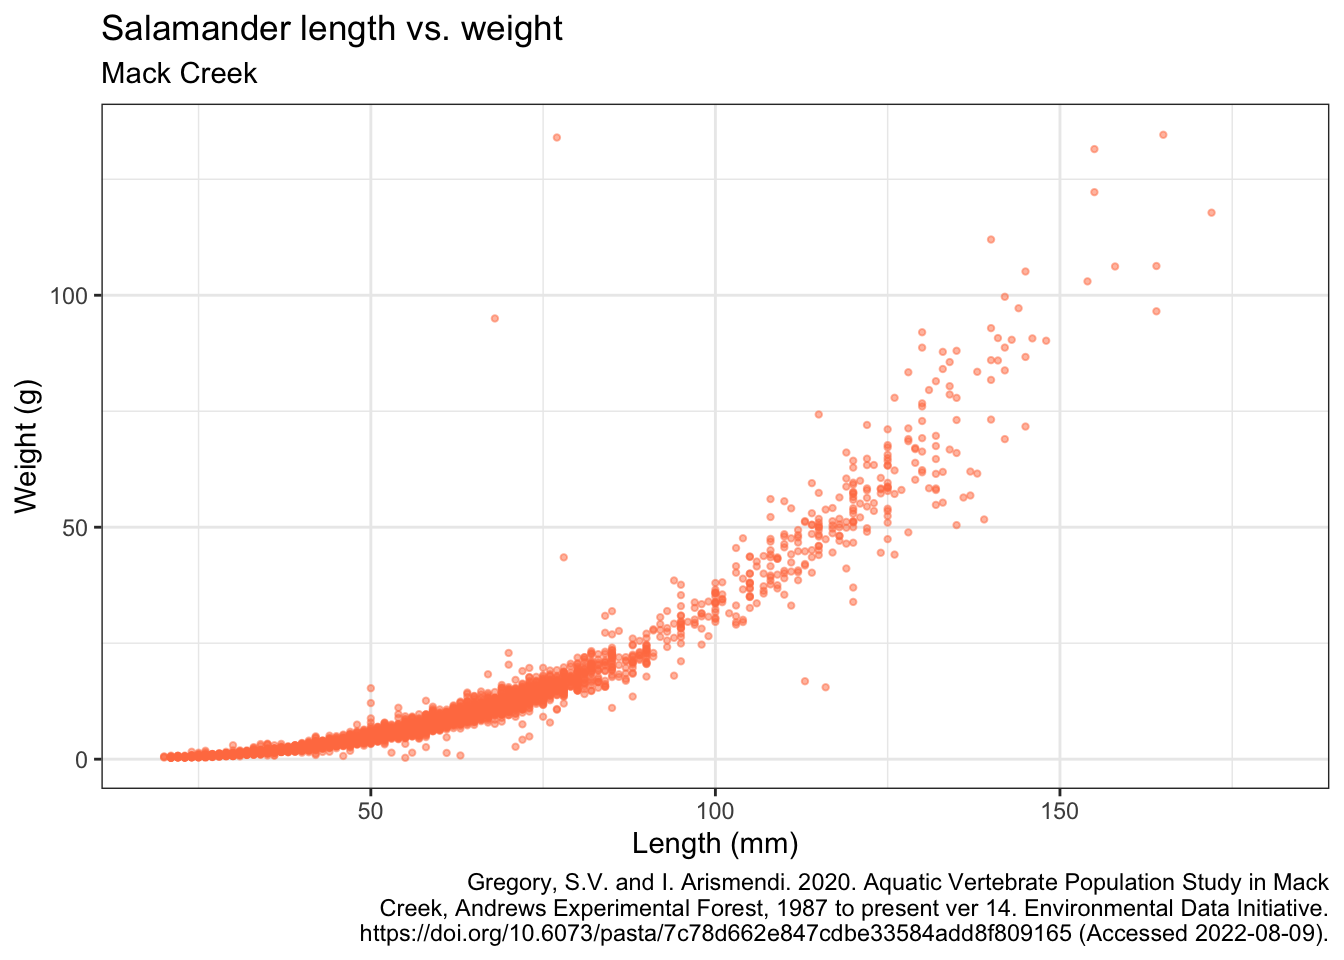
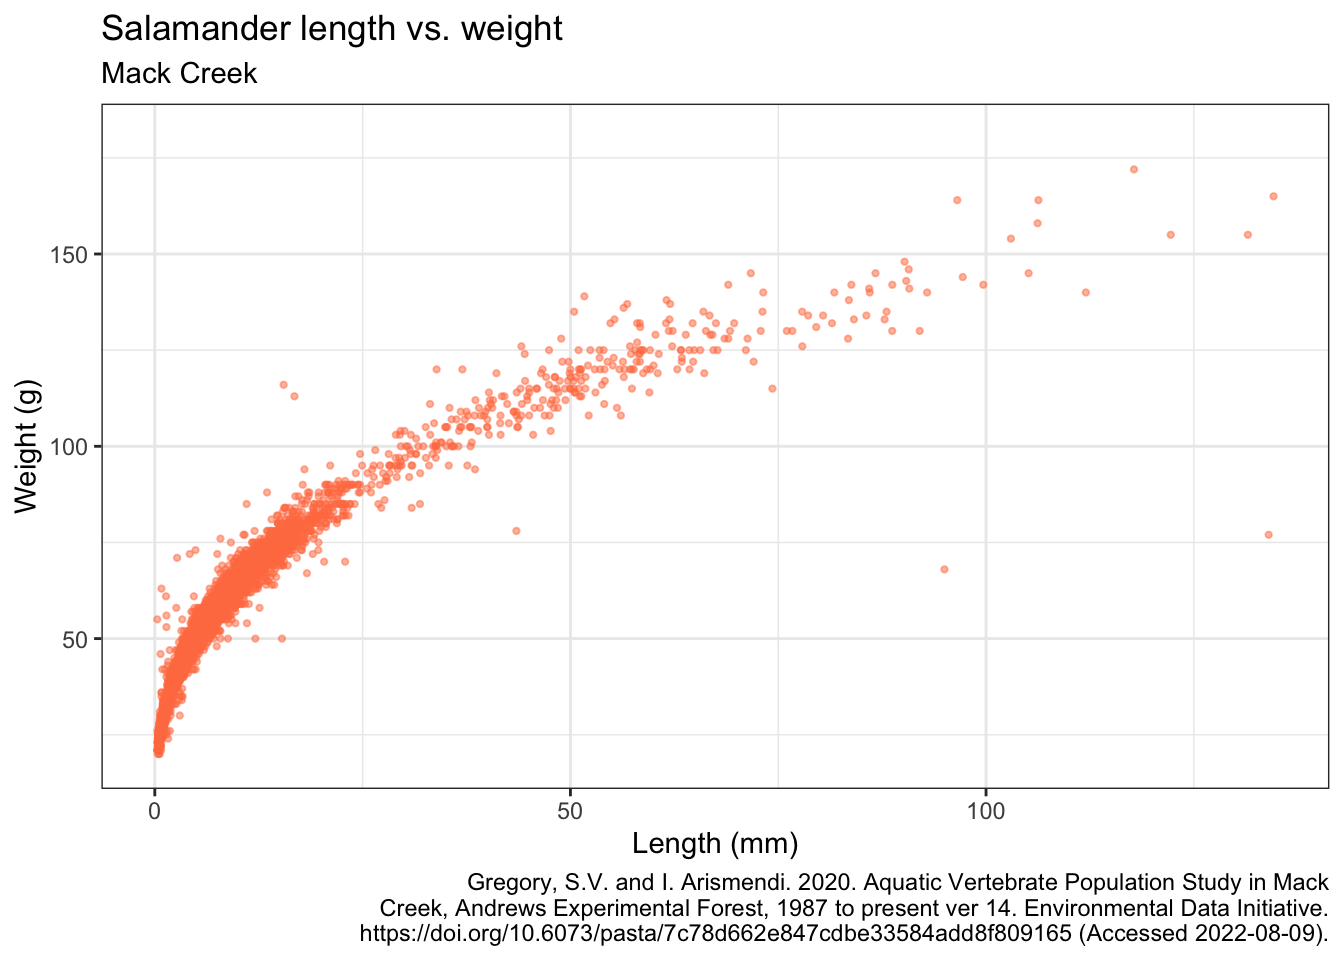
swap axes

diff --git a/docs/mack_creek.html b/docs/mack_creek.html
@@ -149,7 +149,7 @@ code span.wa { color: #60a0b0; font-weight: bold; font-style: italic; } /* Warni
 <section id="make-a-scatterplot-of-salamander-length-x-weight" class="level2">
 <h2 class="anchored" data-anchor-id="make-a-scatterplot-of-salamander-length-x-weight">4. Make a scatterplot of salamander length x weight</h2>
 <div class="cell">
-<div class="sourceCode cell-code" id="cb6"><pre class="sourceCode r code-with-copy"><code class="sourceCode r"><span id="cb6-1"><a href="#cb6-1" aria-hidden="true" tabindex="-1"></a>salamander_plot <span class="ot">&lt;-</span> <span class="fu">ggplot</span>(<span class="at">data =</span> mc_salamanders, <span class="fu">aes</span>(<span class="at">x =</span> length1, <span class="at">y =</span> weight)) <span class="sc">+</span></span>
+<div class="sourceCode cell-code" id="cb6"><pre class="sourceCode r code-with-copy"><code class="sourceCode r"><span id="cb6-1"><a href="#cb6-1" aria-hidden="true" tabindex="-1"></a>salamander_plot <span class="ot">&lt;-</span> <span class="fu">ggplot</span>(<span class="at">data =</span> mc_salamanders, <span class="fu">aes</span>(<span class="at">x =</span> weight, <span class="at">y =</span> length1)) <span class="sc">+</span></span>
 <span id="cb6-2"><a href="#cb6-2" aria-hidden="true" tabindex="-1"></a>  <span class="fu">geom_point</span>(<span class="at">color =</span> <span class="st">"coral"</span>,</span>
 <span id="cb6-3"><a href="#cb6-3" aria-hidden="true" tabindex="-1"></a>             <span class="at">size =</span> .<span class="dv">8</span>,</span>
 <span id="cb6-4"><a href="#cb6-4" aria-hidden="true" tabindex="-1"></a>             <span class="at">alpha =</span> .<span class="dv">5</span>) <span class="sc">+</span></span>
@@ -178,7 +178,7 @@ code span.wa { color: #60a0b0; font-weight: bold; font-style: italic; } /* Warni
 <span id="cb8-2"><a href="#cb8-2" aria-hidden="true" tabindex="-1"></a>  <span class="fu">filter</span>(species <span class="sc">==</span> <span class="st">"ONCL"</span>)</span></code><button title="Copy to Clipboard" class="code-copy-button"><i class="bi"></i></button></pre></div>
 </div>
 <div class="cell">
-<div class="sourceCode cell-code" id="cb9"><pre class="sourceCode r code-with-copy"><code class="sourceCode r"><span id="cb9-1"><a href="#cb9-1" aria-hidden="true" tabindex="-1"></a>trout_plot <span class="ot">&lt;-</span> <span class="fu">ggplot</span>(<span class="at">data =</span> mc_trout, <span class="fu">aes</span>(<span class="at">x =</span> length1, <span class="at">y =</span> weight)) <span class="sc">+</span></span>
+<div class="sourceCode cell-code" id="cb9"><pre class="sourceCode r code-with-copy"><code class="sourceCode r"><span id="cb9-1"><a href="#cb9-1" aria-hidden="true" tabindex="-1"></a>trout_plot <span class="ot">&lt;-</span> <span class="fu">ggplot</span>(<span class="at">data =</span> mc_trout, <span class="fu">aes</span>(<span class="at">x =</span> weight, <span class="at">y =</span> length1)) <span class="sc">+</span></span>
 <span id="cb9-2"><a href="#cb9-2" aria-hidden="true" tabindex="-1"></a>  <span class="fu">geom_point</span>(<span class="fu">aes</span>(<span class="at">color =</span> reach)) <span class="sc">+</span></span>
 <span id="cb9-3"><a href="#cb9-3" aria-hidden="true" tabindex="-1"></a>  <span class="fu">scale_color_manual</span>(<span class="at">values =</span> <span class="fu">c</span>(<span class="st">"burlywood2"</span>, <span class="st">"deepskyblue3"</span>, <span class="st">"deeppink4"</span>)) <span class="sc">+</span></span>
 <span id="cb9-4"><a href="#cb9-4" aria-hidden="true" tabindex="-1"></a>  <span class="fu">facet_wrap</span>(<span class="sc">~</span>reach) <span class="sc">+</span> </span>
